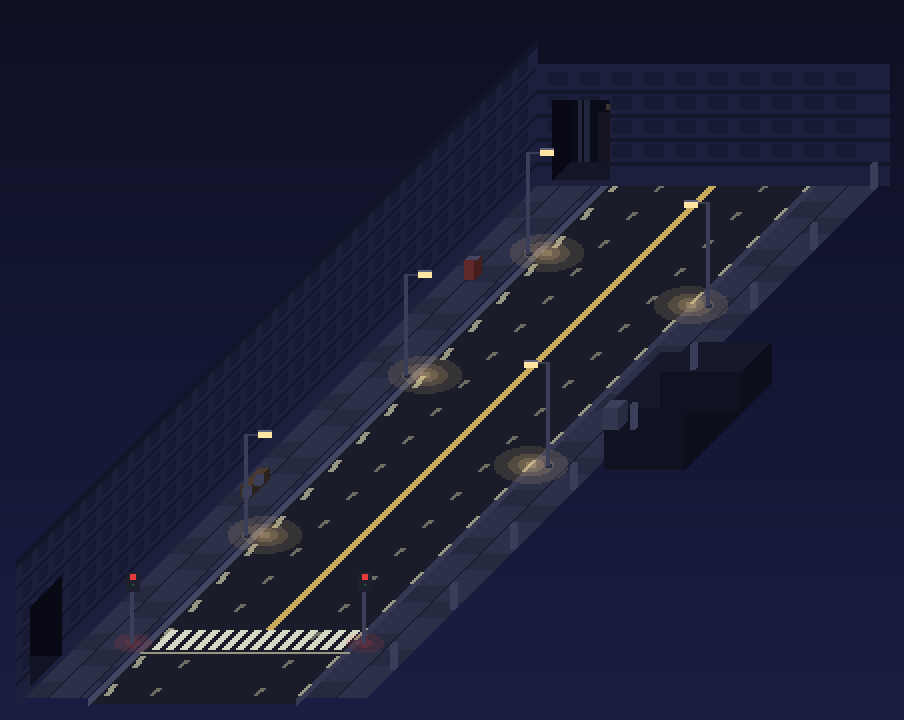
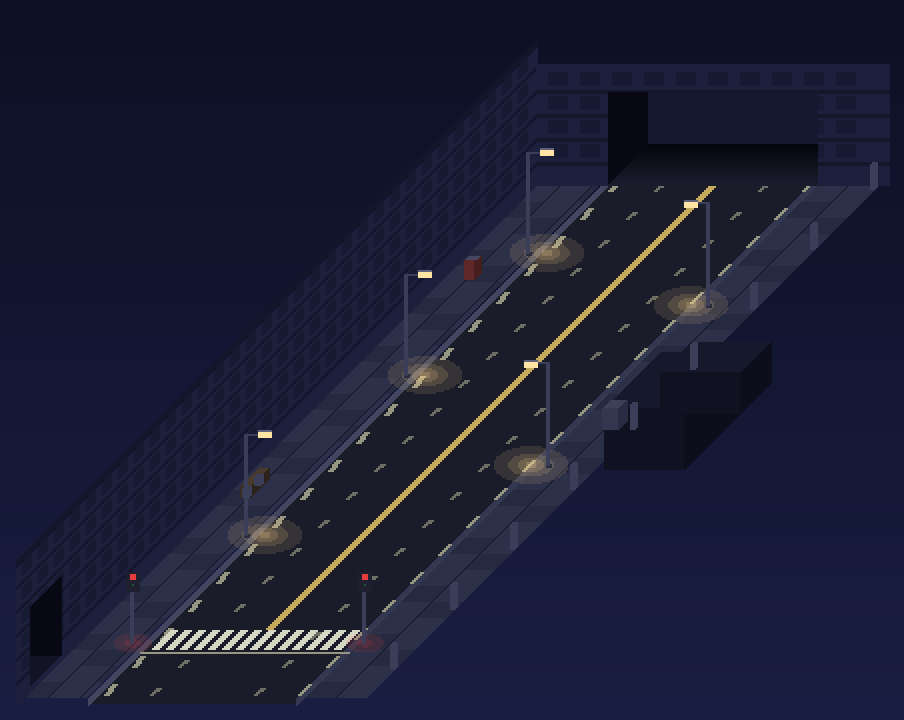
City 3D: road continues through a dark opening at the top end (connection point)
Claude-Session: https://claude.ai/code/session_01FPZSaKiVNU2zED737yZX4w

Changed region(s): [[0.5885, 0.1222, 0.9292, 0.2444]]

diff --git a/tools/render_city3d.py b/tools/render_city3d.py
@@ -129,7 +129,7 @@ def alley_right(s, d0, d1, x0=176, ln=36):
     s.box(x0 - 6, d0 + 3, 5, 5, 8, (40, 44, 68), (30, 34, 54), (24, 28, 44), z0=3)    # 입구 곁 쓰레기통
     s.box(x0 - 6, d1 - 9, 5, 5, 10, (46, 50, 76), (34, 38, 60), (26, 30, 48), z0=3)
 
-def alley_back(s, x0, x1, h=42, z=3, depth=18):
+def alley_back(s, x0, x1, h=42, z=3, depth=18, road=False):
     """거리 맨 위 끝 벽(정면을 향한 면)의 왼쪽 끝에 뚫린 어두운 골목. 정면이라 안쪽(바닥·먼 벽·배관·문)이 보인다."""
     D = s.D; mask = Image.new('L', s.img.size, 0)
     ImageDraw.Draw(mask).polygon([s.P(x0, D, z), s.P(x1, D, z), s.P(x1, D, h), s.P(x0, D, h)], fill=255)
@@ -138,6 +138,11 @@ def alley_back(s, x0, x1, h=42, z=3, depth=18):
     poly([(x0, D, z), (x1, D, z), (x1, D + depth, z), (x0, D + depth, z)], (20, 22, 40))                 # 바닥
     poly([(x0, D + depth, z), (x1, D + depth, z), (x1, D + depth, h), (x0, D + depth, h)], (11, 12, 26))  # 먼 벽
     poly([(x0, D, z), (x0, D + depth, z), (x0, D + depth, h), (x0, D, h)], (8, 9, 20))                  # 왼쪽 안벽
+    if road:                                                                                             # 도로가 벽 밑으로 이어지는 연결 지점: 중앙선이 어둠 속으로 사라진다
+        poly([(x0, D + depth, z), (x1, D + depth, z), (x1, D + depth, h), (x0, D + depth, h)], (20, 24, 48))
+        for x in (87, 89): poly([(x, D, z), (x + 1, D, z), (x + 1, D + depth * .6, z), (x, D + depth * .6, z)], (130, 112, 60))
+        for k in range(0, 12): poly([(x0, D + k * depth / 12, z), (x1, D + k * depth / 12, z), (x1, D + (k + 1) * depth / 12, z), (x0, D + (k + 1) * depth / 12, z)], (int(26 - k * 1.8), int(28 - k * 1.8), int(44 - k * 2.5)))
+        s.img.paste(lay, (0, 0), mask); s.px = s.img.load(); s.d = ImageDraw.Draw(s.img); return
     for xx in (x0 + 4, x0 + 7): poly([(xx, D + depth, z), (xx + 1.5, D + depth, z), (xx + 1.5, D + depth, h), (xx, D + depth, h)], (34, 38, 60))   # 배관
     poly([(x0 + 14, D + depth, z), (x0 + 23, D + depth, z), (x0 + 23, D + depth, z + 24), (x0 + 14, D + depth, z + 24)], (22, 20, 34))           # 막다른 문
     poly([(x0 + 18, D + depth, z + 26), (x0 + 20, D + depth, z + 26), (x0 + 20, D + depth, z + 28), (x0 + 18, D + depth, z + 28)], (58, 54, 46))  # 꺼진 전구
@@ -203,7 +208,7 @@ def street():
         s.jobs.append((56, sig)); s.glow(x, 56, 18, col=(230, 60, 60), power=.35, z=3)
     s.wall_left(0, D, 72, seed=4); s.wall_back(0, W, D, 60, seed=6)
     # 왼쪽 건물 벽에 골목 입구: 광장으로 이어지는 통로(아래) + 골목 3개. 모두 어둡다.
-    alley(s, 14, 44, 'link', depth=34); alley_back(s, 8, 36)
+    alley(s, 14, 44, 'link', depth=34); alley_back(s, 36, 140, h=46, z=0, depth=40, road=True)
     s.box(176, 236, 40, 56, 30, (22, 24, 44), (16, 18, 34), (12, 14, 28)); s.box(176, 292, 40, 30, 20, (22, 24, 44), (16, 18, 34), (12, 14, 28))   # 오른쪽: 골목 대신 막힌 구조물
     for x, d, side in [(30, 170, 1), (146, 240, -1), (30, 330, 1), (146, 400, -1), (30, 452, 1)]: s.lamp(x, d, 50, side)
     s.box(12, 200, 5, 18, 5, (74, 58, 46), (56, 44, 36), (44, 34, 28), z0=4); s.box(12, 202, 3, 2, 4, POLE, POLE, POLE, z0=3); s.box(12, 214, 3, 2, 4, POLE, POLE, POLE, z0=3)
